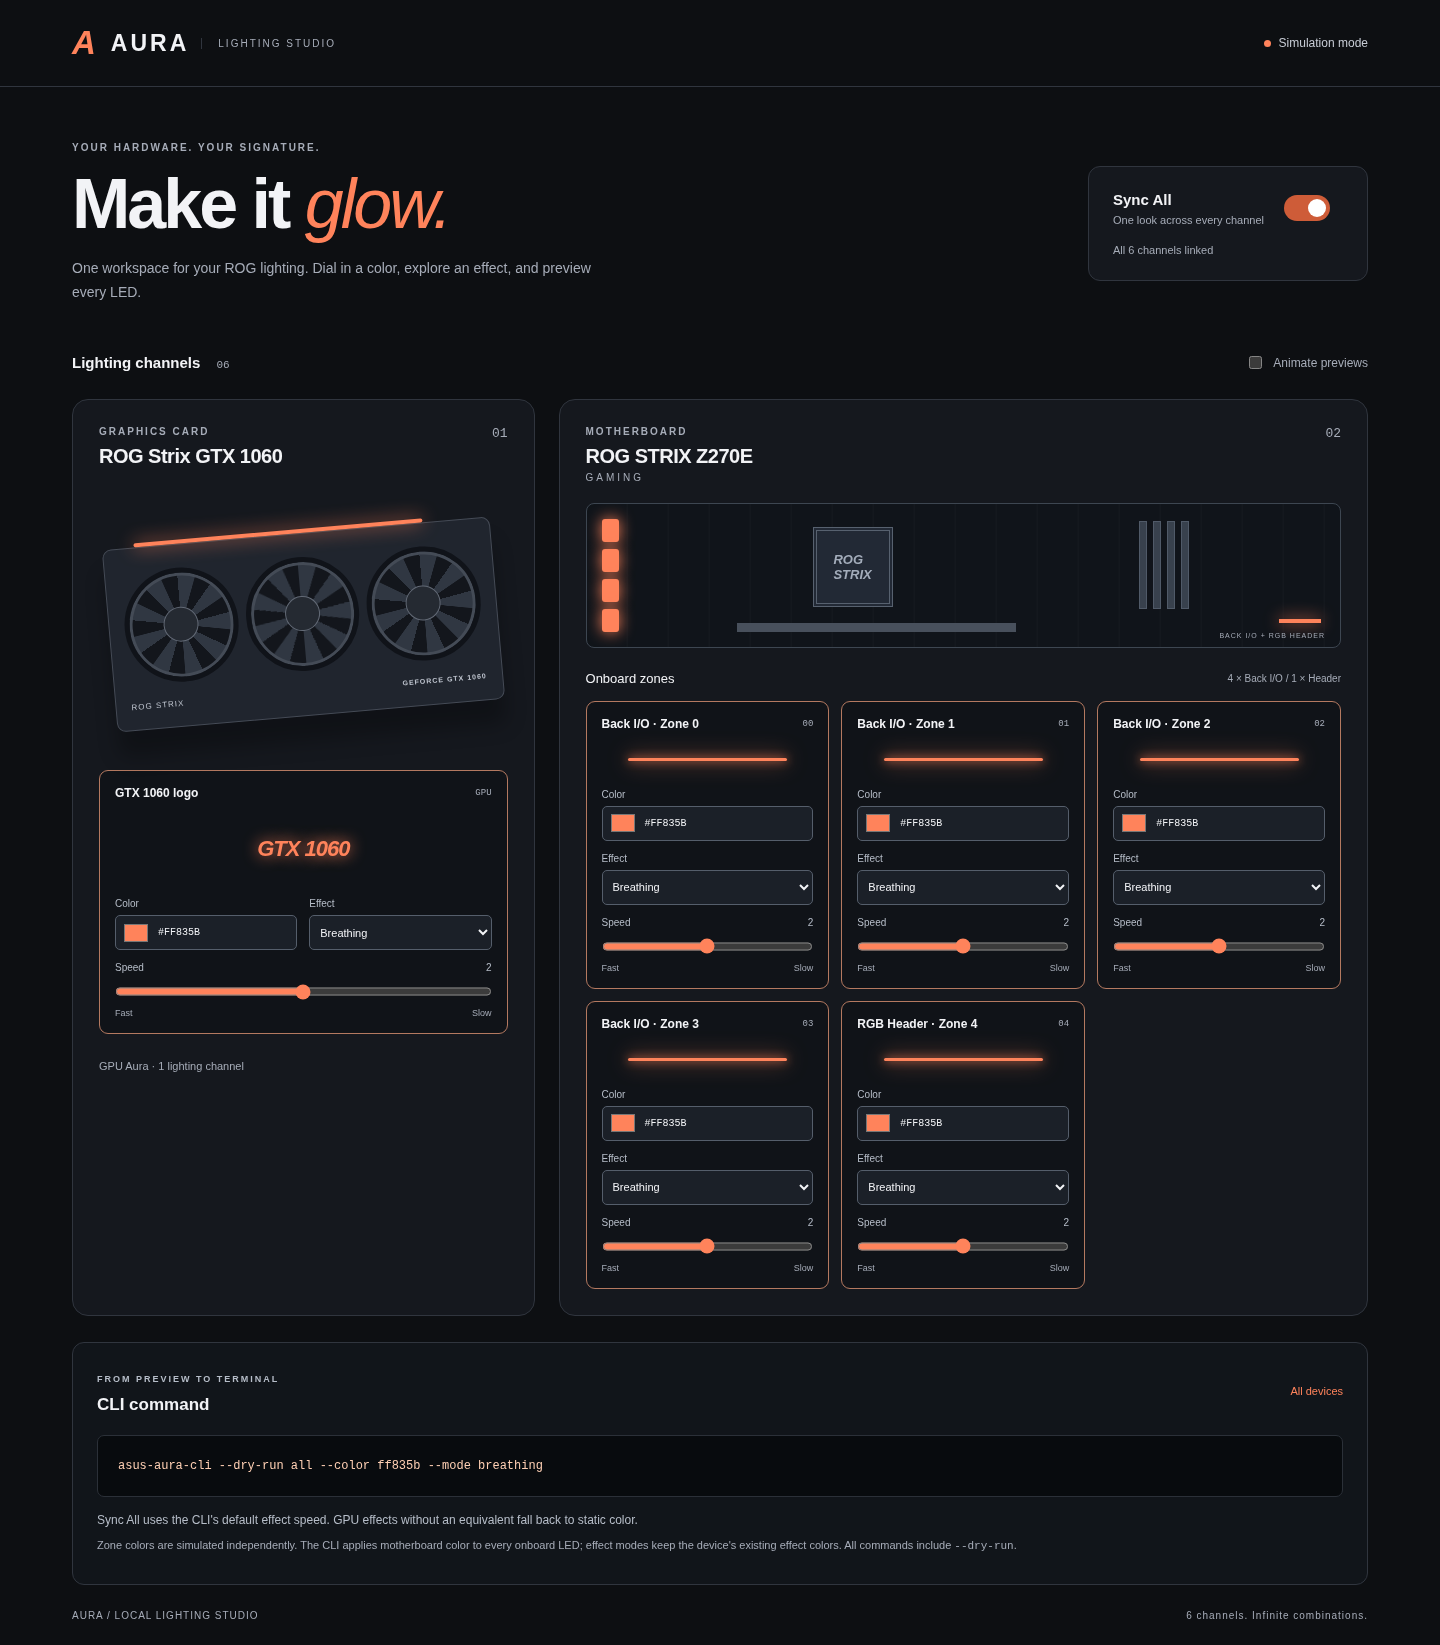
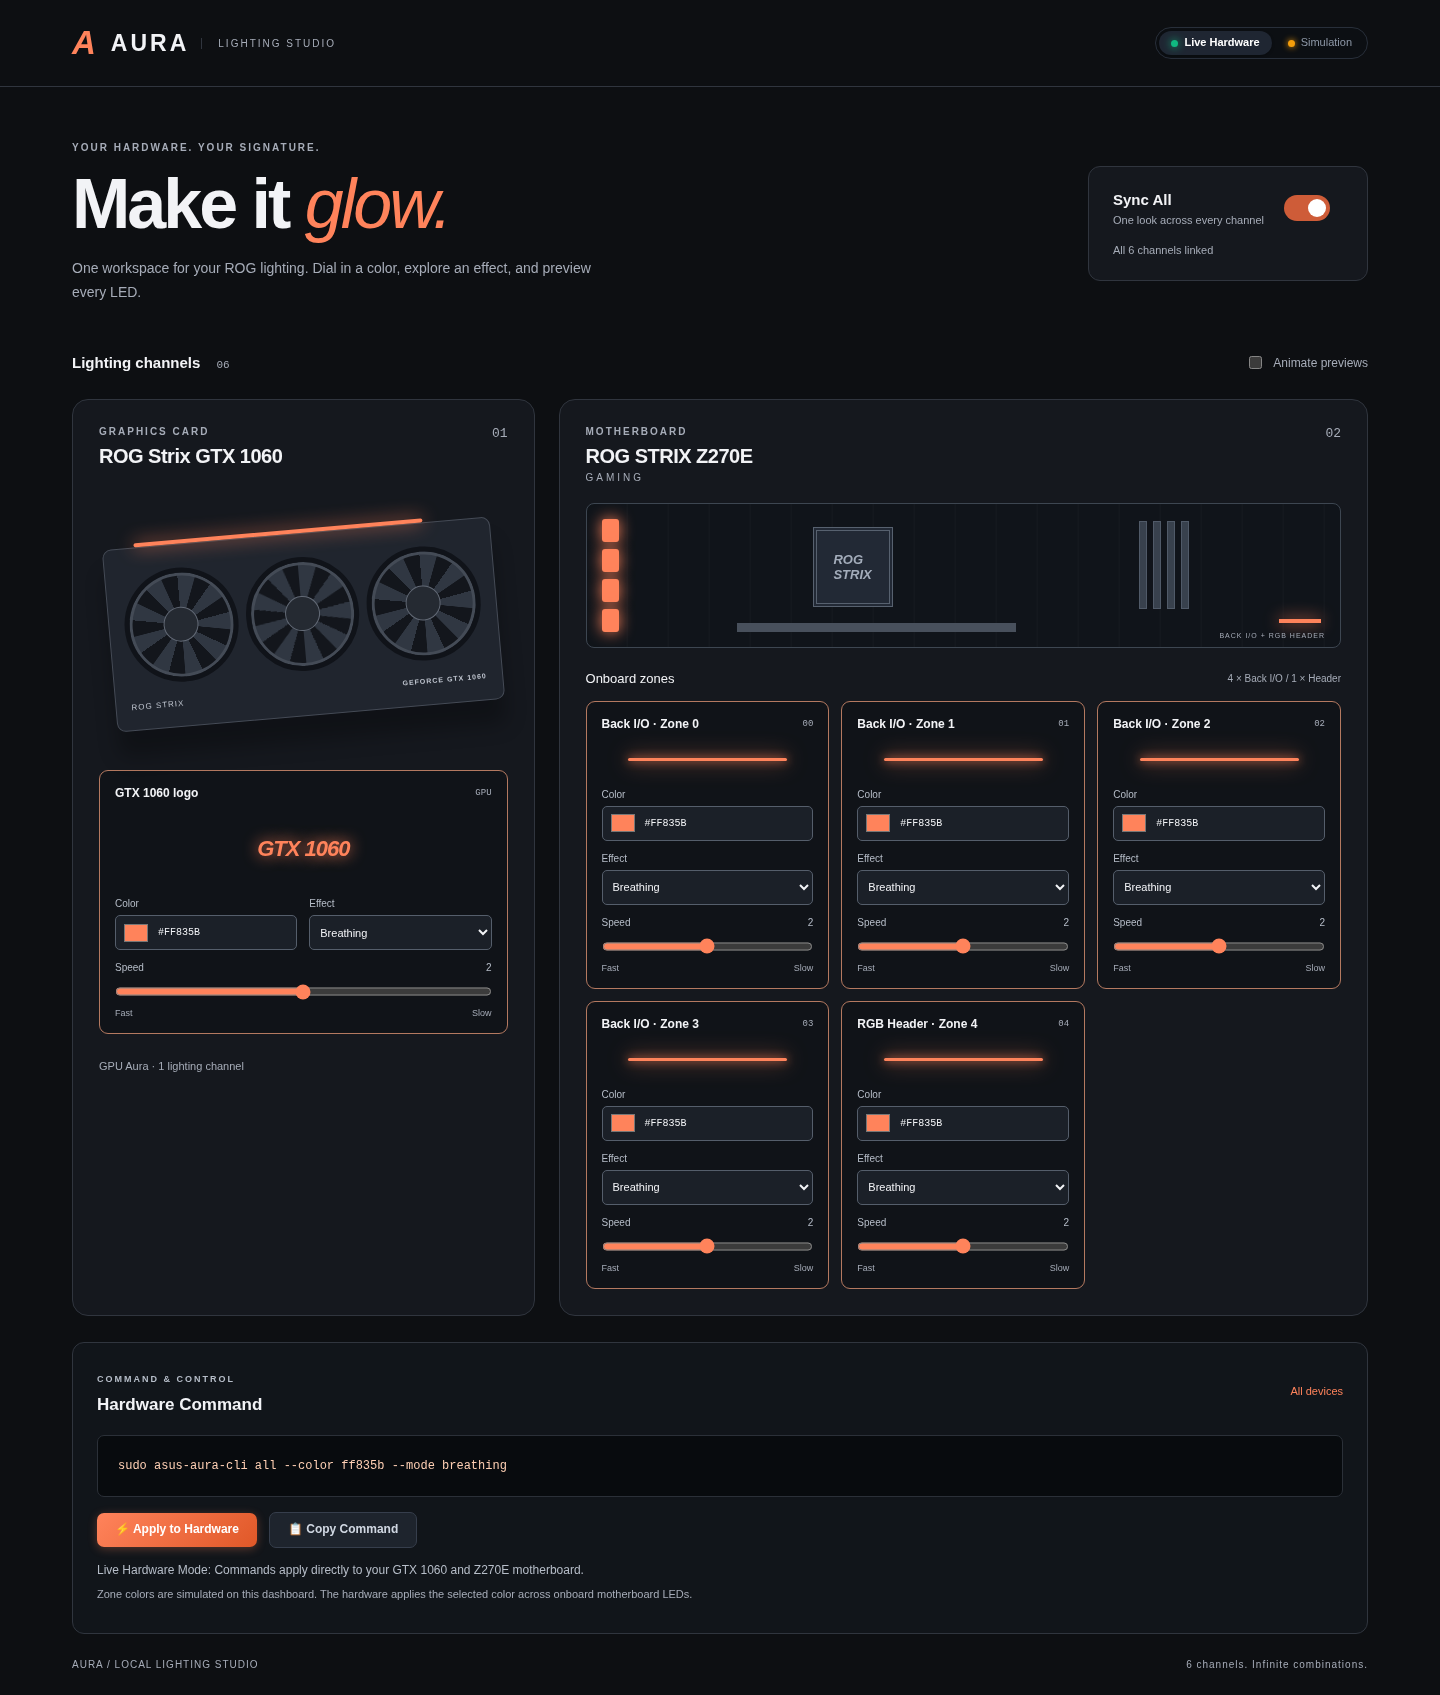
feat(web): enable live hardware control mode with daemon server

diff --git a/web/app.js b/web/app.js
@@ -86,11 +86,43 @@ function render() {
   renderCommand();
 }
 
+let isLiveMode = true;
+const modeLiveBtn = document.querySelector("#mode-live");
+const modeSimBtn = document.querySelector("#mode-sim");
+const btnApply = document.querySelector("#btn-apply");
+const btnCopy = document.querySelector("#btn-copy");
+const toast = document.querySelector("#status-toast");
+
+function setMode(live) {
+  isLiveMode = live;
+  if (modeLiveBtn && modeSimBtn) {
+    modeLiveBtn.classList.toggle("active", live);
+    modeLiveBtn.setAttribute("aria-checked", String(live));
+    modeSimBtn.classList.toggle("active", !live);
+    modeSimBtn.setAttribute("aria-checked", String(!live));
+  }
+  if (btnApply) {
+    btnApply.textContent = live ? "⚡ Apply to Hardware" : "🧪 Test Dry-Run";
+  }
+  renderCommand();
+}
+
+if (modeLiveBtn) modeLiveBtn.addEventListener("click", () => setMode(true));
+if (modeSimBtn) modeSimBtn.addEventListener("click", () => setMode(false));
+
+function showToast(msg, type = "success") {
+  if (!toast) return;
+  toast.textContent = msg;
+  toast.className = `toast ${type}`;
+  toast.style.display = "inline-block";
+  setTimeout(() => { toast.style.display = "none"; }, 4000);
+}
+
 function renderCommand() {
   const target = sync.checked ? "all" : active.id === "gpu" ? "gpu" : "mobo";
   const mappedMode = modes.find(([key]) => key === active.mode)[2];
   const nativeMode = target === "gpu" && !gpuModes.has(mappedMode) ? "static" : mappedMode;
-  const args = ["asus-aura-cli", "--dry-run", target];
+  const args = isLiveMode ? ["sudo", "asus-aura-cli", target] : ["asus-aura-cli", "--dry-run", target];
   if (active.mode === "off") args.push("--off");
   else {
     args.push("--color", active.color.slice(1), "--mode", nativeMode);
@@ -98,11 +130,80 @@ function renderCommand() {
   }
   command.textContent = args.join(" ");
   document.querySelector("#command-target").textContent = sync.checked ? "All devices" : active.name;
-  let note = "Commands are previews only; this page never accesses hardware.";
-  if (target === "gpu" && nativeMode !== mappedMode) note = `GPU uses static color for ${active.mode}; that effect is available on the motherboard.`;
-  else if (target === "all") note = "Sync All uses the CLI's default effect speed. GPU effects without an equivalent fall back to static color.";
-  else if (target === "mobo") note = "This command affects all motherboard LEDs. Speed is ignored by static color and off commands.";
+  let note = isLiveMode
+    ? "Live Hardware Mode: Commands apply directly to your GTX 1060 and Z270E motherboard."
+    : "Simulation Mode: Previews command safely without touching hardware.";
+  if (target === "gpu" && nativeMode !== mappedMode) note += ` (GPU uses static color for ${active.mode}).`;
   document.querySelector("#command-note").textContent = note;
+}
+
+if (btnApply) {
+  btnApply.addEventListener("click", async () => {
+    const target = sync.checked ? "all" : active.id === "gpu" ? "gpu" : "mobo";
+    const mappedMode = modes.find(([key]) => key === active.mode)[2];
+    const nativeMode = target === "gpu" && !gpuModes.has(mappedMode) ? "static" : mappedMode;
+    btnApply.disabled = true;
+    btnApply.textContent = "Applying...";
+    try {
+      const resp = await fetch("/api/apply", {
+        method: "POST",
+        headers: { "Content-Type": "application/json" },
+        body: JSON.stringify({
+          target,
+          dry_run: !isLiveMode,
+          color: active.color.slice(1),
+          mode: nativeMode,
+          speed: active.speed,
+          off: active.mode === "off"
+        })
+      });
+      const data = await resp.json();
+      if (data.ok) {
+        showToast(isLiveMode ? "⚡ Applied to Hardware!" : "🧪 Dry-Run Passed!", "success");
+      } else {
+        showToast(`Error: ${data.error || "Failed to apply"}`, "error");
+      }
+    } catch (e) {
+      showToast(`Server not responding: Run 'python3 web/serve.py'`, "error");
+    } finally {
+      btnApply.disabled = false;
+      btnApply.textContent = isLiveMode ? "⚡ Apply to Hardware" : "🧪 Test Dry-Run";
+    }
+  });
+}
+
+if (btnCopy) {
+  btnCopy.addEventListener("click", () => {
+    navigator.clipboard.writeText(command.textContent).then(
+      () => showToast("📋 Command copied to clipboard!", "success"),
+      () => showToast("Failed to copy", "error")
+    );
+  });
+}
+
+// Initial fetch from live hardware status if API is available
+async function initLiveStatus() {
+  if (window.location.protocol === "file:") return;
+  try {
+    const resp = await fetch("/api/status");
+    const json = await resp.json();
+    if (json.ok && json.data) {
+      const gpu = json.data.gpu;
+      if (gpu && gpu.color_hex) {
+        channels[0].color = "#" + gpu.color_hex;
+        if (gpu.mode) channels[0].mode = gpu.mode;
+      }
+      const mobo = json.data.motherboard;
+      if (mobo && mobo.zones) {
+        mobo.zones.forEach((z, i) => {
+          if (channels[i + 1] && z.hex) channels[i + 1].color = "#" + z.hex;
+        });
+      }
+      render();
+    }
+  } catch (_) {
+    // Static mode fallback
+  }
 }
 
 sync.addEventListener("change", () => { if (sync.checked) mirror(active); render(); });
@@ -111,3 +212,4 @@ if (window.matchMedia("(prefers-reduced-motion: reduce)").matches) animate.check
 animate.addEventListener("change", () => document.body.classList.toggle("paused", !animate.checked));
 document.body.classList.toggle("paused", !animate.checked);
 render();
+initLiveStatus();

diff --git a/web/style.css b/web/style.css
@@ -95,6 +95,28 @@ pre { margin: 20px 0 13px; padding: 20px; background: #080b0e; border-radius: 7p
 .command-panel p { font-size: 12px; line-height: 1.7; color: #b6bdc8; margin: 5px 0; }
 .command-panel .command-help { color: var(--muted); font-size: 11px; }
 footer { display: flex; justify-content: space-between; gap: 20px; padding: 25px 0; color: var(--muted); font-size: 10px; letter-spacing: 1px; }
+
+/* Mode switcher in topbar */
+.mode-switch-group { display: flex; gap: 4px; background: #0c0f13; padding: 3px; border-radius: 20px; border: 1px solid #282f3a; }
+.mode-pill { background: none; border: none; color: #8e98a7; padding: 5px 12px; border-radius: 16px; font: 500 11px/1.2 system-ui, sans-serif; cursor: pointer; display: flex; align-items: center; gap: 6px; transition: background .15s, color .15s; }
+.mode-pill:hover { color: #f0f3f6; }
+.mode-pill.active { background: #1f2632; color: #fff; font-weight: 600; box-shadow: 0 1px 3px rgba(0,0,0,.3); }
+.status-dot { width: 7px; height: 7px; border-radius: 50%; }
+.status-dot.live { background: #10b981; box-shadow: 0 0 8px #10b981; }
+.status-dot.sim { background: #f59e0b; box-shadow: 0 0 6px #f59e0b; }
+
+/* Command actions and buttons */
+.command-actions { display: flex; align-items: center; gap: 12px; margin: 15px 0 12px; flex-wrap: wrap; }
+.btn { padding: 9px 18px; border-radius: 7px; font: 600 12px/1.3 system-ui, sans-serif; cursor: pointer; border: none; transition: transform .1s, background .15s, box-shadow .15s; display: inline-flex; align-items: center; gap: 6px; }
+.btn:active { transform: scale(.98); }
+.btn-apply { background: linear-gradient(135deg, #ff835b, #e05828); color: #fff; box-shadow: 0 2px 10px rgba(255, 131, 91, .3); }
+.btn-apply:hover { background: linear-gradient(135deg, #ffa07e, #f06a3c); box-shadow: 0 3px 14px rgba(255, 131, 91, .5); }
+.btn-secondary { background: #1e242d; color: #d0d7e2; border: 1px solid #363e4c; }
+.btn-secondary:hover { background: #28303b; color: #fff; }
+.toast { font-size: 12px; padding: 6px 12px; border-radius: 5px; display: none; }
+.toast.success { display: inline-block; background: rgba(16, 185, 129, .15); color: #34d399; border: 1px solid rgba(16, 185, 129, .3); }
+.toast.error { display: inline-block; background: rgba(239, 68, 68, .15); color: #f87171; border: 1px solid rgba(239, 68, 68, .3); }
+
 .channel-card[data-mode=off] .led-preview { opacity: .18; }
 .channel-card[data-mode=breathing] .led-preview { animation: breathe var(--duration) ease-in-out infinite; }
 .channel-card[data-mode=strobing] .led-preview, .channel-card[data-mode=flash-and-dash] .led-preview { animation: breathe var(--duration) steps(2) infinite; }

diff --git a/web/index.html b/web/index.html
@@ -12,7 +12,14 @@
   <a class="skip-link" href="#channels">Skip to lighting controls</a>
   <header class="topbar">
     <a class="brand" href="index.html" aria-label="Aura lighting studio home"><span class="brand-mark" aria-hidden="true">A</span> AURA<span class="brand-sub">LIGHTING STUDIO</span></a>
-    <span class="simulation"><span aria-hidden="true"></span> Simulation mode</span>
+    <div class="mode-switch-group" role="radiogroup" aria-label="Operating Mode">
+      <button id="mode-live" class="mode-pill active" type="button" role="radio" aria-checked="true">
+        <span class="status-dot live" aria-hidden="true"></span> Live Hardware
+      </button>
+      <button id="mode-sim" class="mode-pill" type="button" role="radio" aria-checked="false">
+        <span class="status-dot sim" aria-hidden="true"></span> Simulation
+      </button>
+    </div>
   </header>
   <main>
     <section class="intro" aria-labelledby="page-title">
@@ -40,10 +47,15 @@
     </section>
 
     <section class="command-panel" aria-labelledby="command-title">
-      <header><div><p class="eyebrow">FROM PREVIEW TO TERMINAL</p><h2 id="command-title">CLI command</h2></div><span id="command-target">GPU channel</span></header>
-      <pre><code id="command-preview" aria-live="polite"></code></pre>
-      <p id="command-note">Commands are previews only; this page never accesses hardware.</p>
-      <p class="command-help">Zone colors are simulated independently. The CLI applies motherboard color to every onboard LED; effect modes keep the device's existing effect colors. All commands include <code>--dry-run</code>.</p>
+      <header><div><p class="eyebrow">COMMAND &amp; CONTROL</p><h2 id="command-title">Hardware Command</h2></div><span id="command-target">GPU channel</span></header>
+      <pre><code id="command-preview"></code></pre>
+      <div class="command-actions">
+        <button id="btn-apply" class="btn btn-apply" type="button">⚡ Apply to Hardware</button>
+        <button id="btn-copy" class="btn btn-secondary" type="button">📋 Copy Command</button>
+        <div id="status-toast" class="toast" role="status" aria-live="polite"></div>
+      </div>
+      <p id="command-note">Live Hardware Mode: Commands apply directly to GTX 1060 and Z270E motherboard.</p>
+      <p class="command-help">Zone colors are simulated on this dashboard. The hardware applies the selected color across onboard motherboard LEDs.</p>
     </section>
     <footer><span>AURA / LOCAL LIGHTING STUDIO</span><span>6 channels. Infinite combinations.</span></footer>
   </main>

diff --git a/web/serve.py b/web/serve.py
@@ -1,0 +1,139 @@
+#!/usr/bin/env python3
+"""Local HTTP API server for ASUS Aura Lighting Studio.
+Provides static asset serving and live hardware endpoints calling asus-aura-cli.
+"""
+import http.server
+import json
+import os
+import shlex
+import socketserver
+import subprocess
+import sys
+from pathlib import Path
+
+ROOT_DIR = Path(__file__).resolve().parent.parent
+WEB_DIR = ROOT_DIR / "web"
+CLI_BIN = ROOT_DIR / "target" / "release" / "asus-aura-cli"
+PORT = int(os.environ.get("AURA_PORT", 7890))
+
+class AuraRequestHandler(http.server.SimpleHTTPRequestHandler):
+    def __init__(self, *args, **kwargs):
+        super().__init__(*args, directory=str(WEB_DIR), **kwargs)
+
+    def log_message(self, format, *args):
+        sys.stderr.write(f"[aura-server] {format % args}\n")
+
+    def do_GET(self):
+        if self.path == "/api/status":
+            self.handle_get_status()
+        else:
+            super().do_GET()
+
+    def do_POST(self):
+        if self.path == "/api/apply":
+            self.handle_post_apply()
+        else:
+            self.send_error(404, "Endpoint not found")
+
+    def handle_get_status(self):
+        cmd = ["sudo", "-n", str(CLI_BIN), "--json", "status"]
+        try:
+            r = subprocess.run(cmd, capture_output=True, text=True, timeout=5)
+            if r.returncode == 0:
+                data = json.loads(r.stdout)
+                self.send_json_response(200, {"ok": True, "mode": "live", "data": data})
+            else:
+                # Fallback to dry-run status if sudo fails
+                r_dry = subprocess.run([str(CLI_BIN), "--dry-run", "--json", "status"], capture_output=True, text=True)
+                data = json.loads(r_dry.stdout) if r_dry.returncode == 0 else {}
+                self.send_json_response(200, {"ok": False, "mode": "sim", "error": r.stderr.strip(), "data": data})
+        except Exception as e:
+            self.send_json_response(500, {"ok": False, "error": str(e)})
+
+    def handle_post_apply(self):
+        try:
+            content_length = int(self.headers.get("Content-Length", 0))
+            body = self.rfile.read(content_length).decode("utf-8")
+            req = json.loads(body)
+        except Exception as e:
+            self.send_json_response(400, {"ok": False, "error": f"Invalid JSON: {e}"})
+            return
+
+        target = req.get("target", "all")  # all, gpu, mobo
+        is_dry_run = bool(req.get("dry_run", False))
+        is_off = bool(req.get("off", False))
+        color = req.get("color", "").lstrip("#").strip()
+        mode = req.get("mode", "static").strip()
+        speed = req.get("speed", 0)
+
+        cmd = []
+        if not is_dry_run:
+            cmd.extend(["sudo", "-n"])
+        cmd.extend([str(CLI_BIN)])
+        if is_dry_run:
+            cmd.append("--dry-run")
+        cmd.append(target)
+
+        if is_off:
+            cmd.append("--off")
+        else:
+            if color:
+                cmd.extend(["--color", color])
+            if mode:
+                cmd.extend(["--mode", mode])
+            if target == "mobo" and speed is not None:
+                cmd.extend(["--speed", str(speed)])
+
+        cmd_display = " ".join(shlex.quote(c) for c in cmd)
+        print(f"[aura-server] Executing: {cmd_display}", flush=True)
+
+        try:
+            r = subprocess.run(cmd, capture_output=True, text=True, timeout=10)
+            if r.returncode == 0:
+                self.send_json_response(200, {
+                    "ok": True,
+                    "command": cmd_display,
+                    "output": r.stdout.strip(),
+                    "dry_run": is_dry_run
+                })
+            else:
+                self.send_json_response(400, {
+                    "ok": False,
+                    "command": cmd_display,
+                    "error": r.stderr.strip() or r.stdout.strip(),
+                    "dry_run": is_dry_run
+                })
+        except Exception as e:
+            self.send_json_response(500, {"ok": False, "command": cmd_display, "error": str(e)})
+
+    def send_json_response(self, code, data):
+        payload = json.dumps(data).encode("utf-8")
+        self.send_response(code)
+        self.send_header("Content-Type", "application/json")
+        self.send_header("Content-Length", str(len(payload)))
+        self.send_header("Access-Control-Allow-Origin", "*")
+        self.send_header("Access-Control-Allow-Methods", "GET, POST, OPTIONS")
+        self.send_header("Access-Control-Allow-Headers", "Content-Type")
+        self.end_headers()
+        self.wfile.write(payload)
+
+    def do_OPTIONS(self):
+        self.send_response(200)
+        self.send_header("Access-Control-Allow-Origin", "*")
+        self.send_header("Access-Control-Allow-Methods", "GET, POST, OPTIONS")
+        self.send_header("Access-Control-Allow-Headers", "Content-Type")
+        self.end_headers()
+
+
+def run_server():
+    socketserver.TCPServer.allow_reuse_address = True
+    with socketserver.TCPServer(("127.0.0.1", PORT), AuraRequestHandler) as httpd:
+        print(f"[aura-server] Serving on http://127.0.0.1:{PORT} (Press Ctrl+C to stop)", flush=True)
+        try:
+            httpd.serve_forever()
+        except KeyboardInterrupt:
+            pass
+
+
+if __name__ == "__main__":
+    run_server()

diff --git a/tests/test_ui.py b/tests/test_ui.py
@@ -65,10 +65,20 @@ def test_lighting_dashboard(page, viewport):
         expect(page.locator(f"#{channel}-mode")).to_have_value("rainbow")
         expect(page.locator(f"#{channel}-speed")).to_have_value("2")
         assert page.locator(f"#{channel}").evaluate("el => el.style.getPropertyValue('--led')") == "#a855ff"
+    expect(page.locator("#command-preview")).to_have_text("sudo asus-aura-cli all --color a855ff --mode rainbow")
+
+    # Toggle to simulation mode and verify dry-run command
+    page.locator("#mode-sim").click()
     expect(page.locator("#command-preview")).to_have_text("asus-aura-cli --dry-run all --color a855ff --mode rainbow")
+    expect(page.locator("#btn-apply")).to_have_text("🧪 Test Dry-Run")
+
+    # Toggle back to live hardware mode
+    page.locator("#mode-live").click()
+    expect(page.locator("#command-preview")).to_have_text("sudo asus-aura-cli all --color a855ff --mode rainbow")
+    expect(page.locator("#btn-apply")).to_have_text("⚡ Apply to Hardware")
 
     page.locator("#gpu-mode").select_option("off")
-    expect(page.locator("#command-preview")).to_have_text("asus-aura-cli --dry-run all --off")
+    expect(page.locator("#command-preview")).to_have_text("sudo asus-aura-cli all --off")
     expect(page.locator(".channel-card[data-mode=off]")).to_have_count(6)
     page.locator("#sync-all").uncheck()
     set_color(page, "#gpu-color", "#ff835b")
